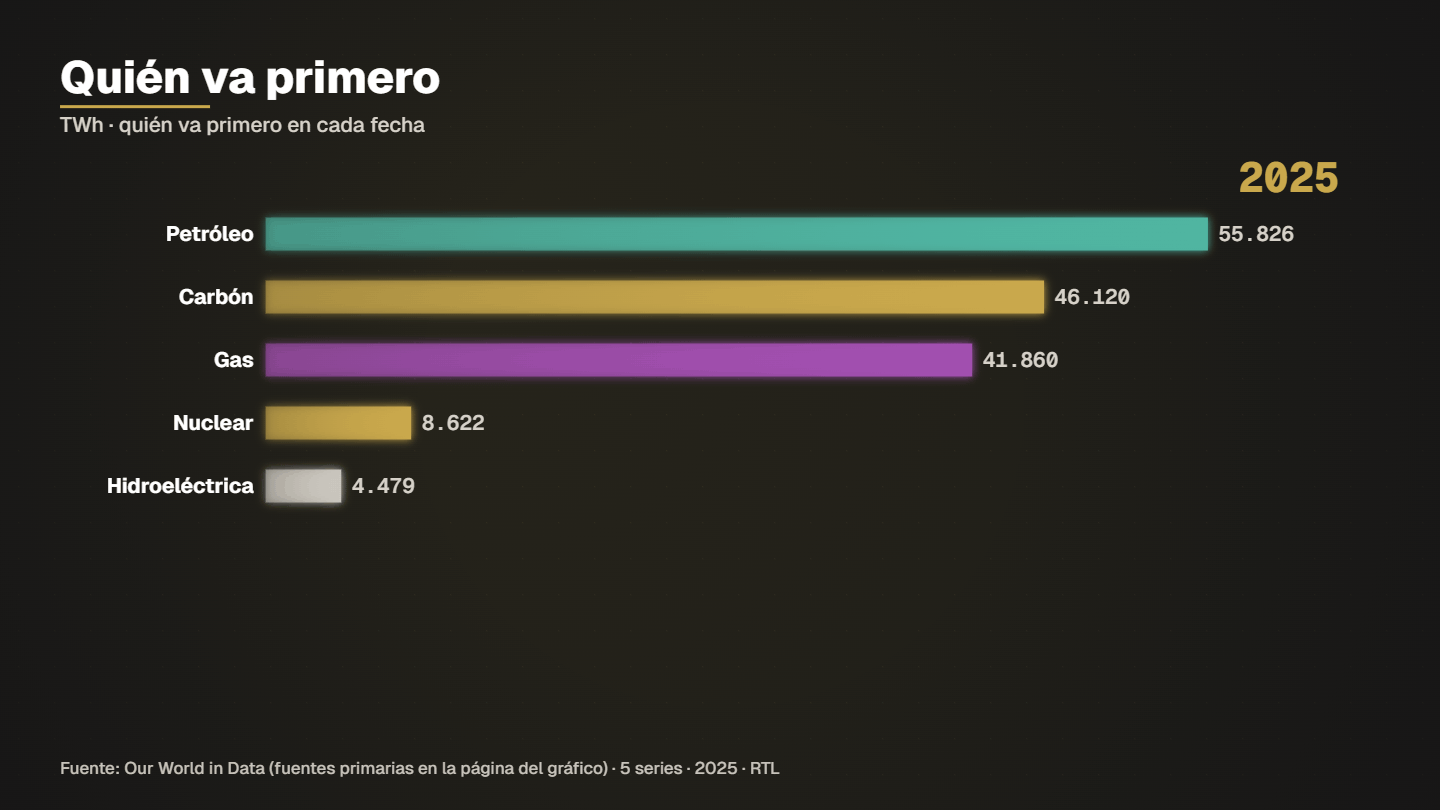
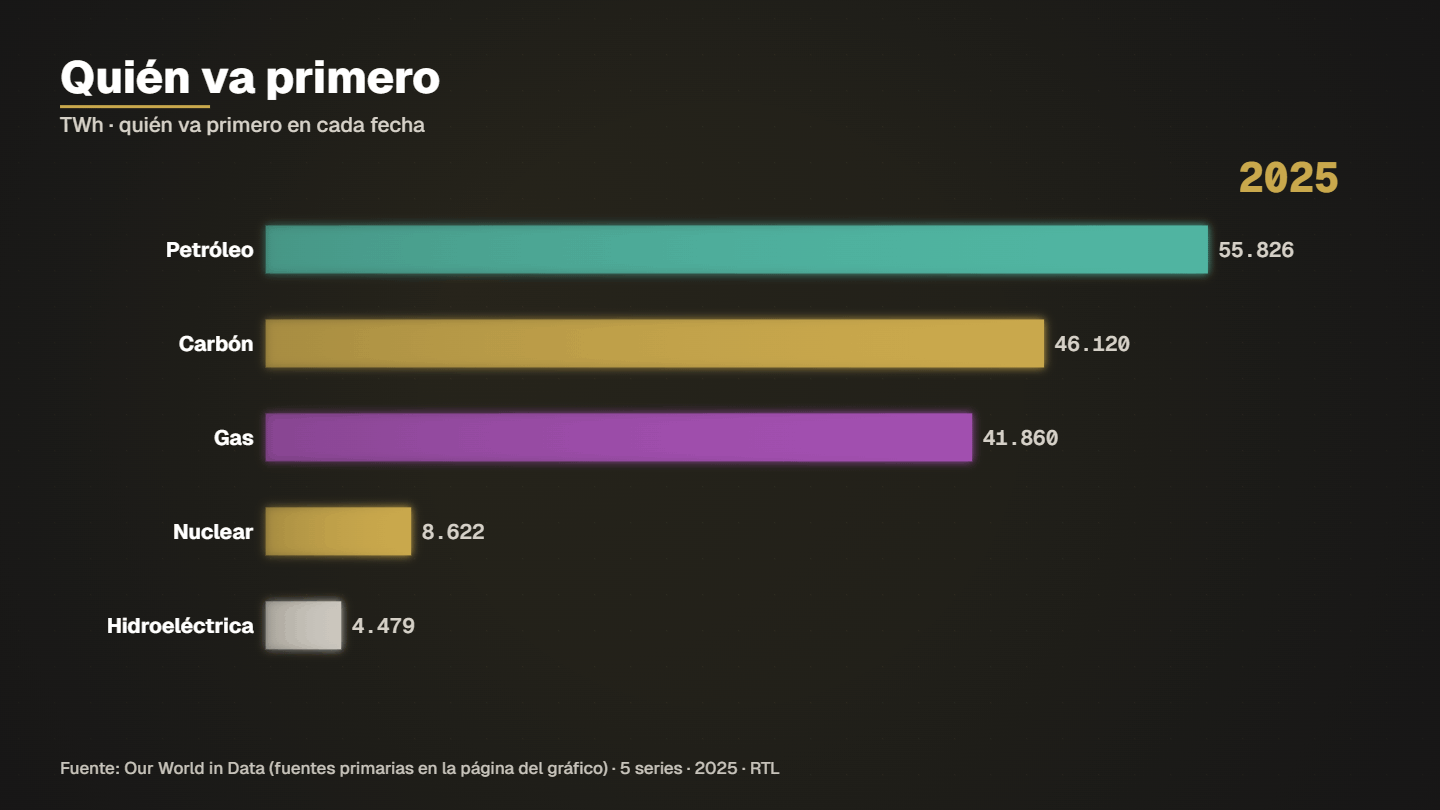
Charts: no truncated names in vertical, fuller canvas for ranking/dumbbell/race, contact-sheet audit tool

Changed region(s): [[0.0625, 0.2778, 0.9062, 0.7099], [0.1875, 0.2469, 0.8438, 0.2778], [0.0625, 0.7407, 0.2812, 0.8333]]

diff --git a/motor/capas_extra.js b/motor/capas_extra.js
@@ -6,6 +6,7 @@
 import {colorDivergente} from './escalas.js';
 import {PALETA, COLOR, TEMA, clamp, lerp, ease, prog, colorDe, mezcla, rgba, fmtNum, fmtSigno, fmtFecha, ticksNum, ticksFecha, etiquetaTick} from './nucleo.js';
 import {escalarFuente, fuenteCss, margenes, envolver, contraste, entrada as entradaDiseno} from './diseno.js';
+import {envolverEntero} from './etiquetas.js';
 
 export const TIPOS_EXTRA = ['radar', 'apilada', 'velas', 'histograma', 'dumbbell', 'calendario', 'agrupadas', 'bullet', 'bandas', 'pictograma', 'ranking'];
 /** Qué clase de dato consume cada capa: serie de tiempo, tabla de categorías, o ambas. */
@@ -58,6 +59,12 @@ function cortarA(env, s, ancho, base, peso = 700, mono = false) {
   let r = String(s);
   if (ctx.measureText(r).width > ancho) { while (r.length > 3 && ctx.measureText(r + '…').width > ancho) r = r.slice(0, -1); r = r.trimEnd() + '…'; }
   ctx.restore(); return r;
+}
+/** Nombre en 1..maxL líneas que caben en `ancho` SIN «…» (por palabras); solo si ni así cabe, se corta como última salida. */
+function nombreEnLineas(env, s, ancho, base, peso = 700, maxL = 2) {
+  const {ctx} = env; ctx.save(); ctx.font = F(env, peso, base);
+  const r = ctx.measureText(String(s)).width <= ancho ? [String(s)] : envolverEntero(ctx, String(s), ancho, maxL);
+  ctx.restore(); return r ?? [cortarA(env, s, ancho, base, peso)];
 }
 function lineasDe(env, s, ancho, base, peso, maxL) { const {ctx} = env; ctx.save(); ctx.font = F(env, peso, base); const r = envolver(ctx, s, ancho, maxL); ctx.restore(); return r; }
 
@@ -331,7 +338,7 @@ function dumbbell(env, capa) {
   const eje = pos ? marcasHasta(mx * 1.02, 4) : (() => { const tk = ticksNum(mn - (mx - mn) * 0.05, mx + (mx - mn) * 0.05, 4); return {ticks: tk, top: tk[tk.length - 1]}; })(), lo = pos ? 0 : eje.ticks[0], hi = eje.top;
   const dTxt = (f) => { const d = f.v0 > 0 ? (f.v1 / f.v0 - 1) * 100 : null; return d == null ? '' : pSigno(d, decPct(d)); }, vTxt = (f) => `${fN(f.v0, f.fmt)} → ${fN(f.v1, f.fmt)}`;
   const wUna = Math.max(...L.filas.map((f) => med(env, `${vTxt(f)}  ${dTxt(f)}`, 26, 800, true))), wNom = Math.max(...L.filas.map((f) => med(env, f.nombre, 26, 700))), dos = wUna + Math.min(wNom, B.w * 0.4) + 24 * u > B.w;   // ¿caben nombre y valores en una línea?
-  const cab = S * 1.0, fila = Math.min((B.h - cab - S * 2.4) / n, dos ? N * 2.5 + S * 2.2 : N * 2.5), x0 = B.x + 8 * u, x1 = B.x + B.w - 8 * u, px = (v) => x0 + ((v - lo) / (hi - lo)) * (x1 - x0), p = prog(t, t0, t1, ease.io2) * n, yy = B.y + cab, fmt = L.filas[0].fmt;
+  const cab = S * 1.0, holg = n <= 6 ? (vert ? 2.3 : 1.55) : 1, fila = Math.min((B.h - cab - S * 2.4) / n, (dos ? N * 2.5 + S * 2.2 : N * 2.5) * holg), x0 = B.x + 8 * u, x1 = B.x + B.w - 8 * u, px = (v) => x0 + ((v - lo) / (hi - lo)) * (x1 - x0), p = prog(t, t0, t1, ease.io2) * n, yy = B.y + cab, fmt = L.filas[0].fmt;
   nota(env, B, capa.nota ?? `CADA FILA UNE EL VALOR «${L.l0}» (PUNTO GRIS) CON EL «${L.l1}» (PUNTO DE COLOR) EN LA MISMA ESCALA${pos ? ', QUE ARRANCA EN 0' : ''}. VERDE: SUBIÓ · ROJO: BAJÓ.${uni(L.filas[0].fmt)}`, capa.id ?? 'dumbbell', ap);
   ctx.save(); ctx.globalAlpha *= ap;
   eje.ticks.forEach((v) => { const x = px(v); if (x < x0 - 1 || x > x1 + 1) return; ctx.strokeStyle = rgba(PALETA.piedra, v === lo ? 0.3 : 0.08); ctx.lineWidth = 1 * u; ctx.beginPath(); ctx.moveTo(x, yy); ctx.lineTo(x, yy + fila * n); ctx.stroke(); rot(env, fN(v, {...fmt, decimales: decDe(eje.ticks[1] - eje.ticks[0])}), x, yy + fila * n + S * 1.3, 18, 500, rgba(PALETA.piedraOscura, 0.95), 'center', `${capa.id ?? 'dumbbell'}:x${v}`, {mono: true, tipo: 'eje-x', lim: [x0, x1]}); });
@@ -458,14 +465,14 @@ function bullet(env, capa) {
   const {ctx, u, t, H, W} = env, tab = env.tablas[capa.datos], vert = H > W;
   const B = cajaDef(env, capa), [t0, t1] = capa.t ?? [0.5, 5], ap = aparece(env, capa, t0); if (ap <= 0) return;
   const L = (capa._bl ??= armarBullet(capa, tab)), n = L.length, S = tam(env, 18), N = tam(env, 26), p = prog(t, t0, t1, ease.io2);
-  const fila = Math.min((B.h - S * 0.5) / n, N * 7), bh = Math.max(26 * u, N * 1.0);
+  const lhB = tam(env, 26) * 1.12, LNB = (capa._bn ??= L.map((r) => nombreEnLineas(env, r.nombre, B.w - med(env, fN(r.v, r.fmt), 28, 800, true) - 20 * u, 26, 700, 2))), extB = Math.max(...LNB.map((l) => l.length)) - 1, fila = Math.min((B.h - S * 0.5) / n, N * 7 + extB * lhB), bh = Math.max(26 * u, N * 1.0);
   nota(env, B, capa.nota ?? 'BARRA: ÚLTIMO DATO. FONDO: HISTORIA DE LA SERIE EN TRES TRAMOS (MÍNIMO–P25, P25–P75, P75–MÁXIMO). RAYA BLANCA: LA META. LA ESCALA ARRANCA EN 0.', capa.id ?? 'bullet', ap);
   ctx.save(); ctx.globalAlpha *= ap;
   L.forEach((r, i) => {
     const y = B.y + i * fila, g = clamp(p * (n + 1) - i * 0.7), e = ease.out3(g); if (g <= 0) return;
-    const lo = Math.min(0, r.min), hi = Math.max(r.max, r.v, r.meta), px = (v) => B.x + ((v - lo) / (hi - lo)) * B.w, yb = y + N * 1.5, c = acento_(capa);
+    const lo = Math.min(0, r.min), hi = Math.max(r.max, r.v, r.meta), px = (v) => B.x + ((v - lo) / (hi - lo)) * B.w, yb = y + N * 1.5 + (LNB[i].length - 1) * lhB, c = acento_(capa);
     const vTxt = fN(r.v, r.fmt), wv = med(env, vTxt, 28, 800, true);
-    rot(env, cortarA(env, r.nombre, B.w - wv - 20 * u, 26, 700), B.x, y + N * 0.95, 26, 700, PALETA.blanco, 'left', `${capa.id ?? 'bullet'}:n${i}`, {alpha: g});
+    LNB[i].forEach((ln, k) => rot(env, ln, B.x, y + N * 0.95 + k * lhB, 26, 700, PALETA.blanco, 'left', `${capa.id ?? 'bullet'}:n${i}:${k}`, {alpha: g}));
     rot(env, vTxt, B.x + B.w, y + N * 0.95, 28, 800, c, 'right', `${capa.id ?? 'bullet'}:v${i}`, {mono: true, alpha: g});
     [[lo, r.p25, 0.34], [r.p25, r.p75, 0.2], [r.p75, hi, 0.1]].forEach(([a, b, k]) => { ctx.fillStyle = rgba(PALETA.piedra, k); ctx.fillRect(px(a), yb, Math.max(0, px(b) - px(a)), bh); });
     ctx.fillStyle = c; ctx.fillRect(Math.min(px(0), px(r.v)), yb + bh * 0.3, Math.abs(px(r.v) - px(0)) * e, bh * 0.4);
@@ -526,15 +533,15 @@ function armarPicto(capa, tab, B, env) {
 function pictograma(env, capa) {
   const {ctx, u, t, H, W} = env, tab = env.tablas[capa.datos], vert = H > W;
   const B = cajaDef(env, capa), [t0, t1] = capa.t ?? [0.5, 5], ap = aparece(env, capa, t0); if (ap <= 0) return;
-  const L = (capa._pc ??= armarPicto(capa, tab, B, env)), n = L.items.length, S = tam(env, 18), N = tam(env, 26), pal = paleta(), p = prog(t, t0, t1, ease.io2) * n, fila = Math.min((B.h - S * 2) / n, N * 3.2 + L.sq * 1.4), cab = S * 1.9;
+  const L = (capa._pc ??= armarPicto(capa, tab, B, env)), n = L.items.length, S = tam(env, 18), N = tam(env, 26), pal = paleta(), p = prog(t, t0, t1, ease.io2) * n, lhP = tam(env, 26) * 1.12, LN = (capa._pn ??= L.items.map((it) => { const pct = (it.valor / L.total) * 100; return nombreEnLineas(env, it.nombre, B.w - med(env, `${fN(it.valor, tab.fmt)}  ·  ${pTxt(pct, decPct(pct))}`, 26, 800, true) - 24 * u, 26, 700, 3); })), ext = Math.max(...LN.map((l) => l.length)) - 1, fila = Math.min((B.h - S * 2) / n, (vert ? N * 4.1 : N * 3.2) + L.sq * (vert ? 1.9 : 1.4) + ext * lhP), cab = S * 1.9;
   nota(env, B, capa.nota ?? `CADA CUADRO = ${fN(L.unidad, tab.fmt)}. LOS CUADROS INCOMPLETOS SON FRACCIONES EXACTAS DEL VALOR. EL % ES EL VALOR ENTRE LA SUMA DE TODAS LAS PARTES.${L.omitidas ? ` SE MUESTRAN LAS ${n} MAYORES DE ${n + L.omitidas}.` : ''}`, capa.id ?? 'pictograma', ap);
   ctx.save(); ctx.globalAlpha *= ap;
   L.items.forEach((it, i) => {
     const a = clamp(p - i), y = B.y + (i * fila), col = pal[i % pal.length]; if (a <= 0) return;
     const pct = (it.valor / L.total) * 100, tx = `${fN(it.valor, tab.fmt)}  ·  ${pTxt(pct, decPct(pct))}`, wT = med(env, tx, 26, 800, true);
-    rot(env, cortarA(env, it.nombre, B.w - wT - 24 * u, 26, 700), B.x, y + N * 0.95, 26, 700, PALETA.blanco, 'left', `${capa.id ?? 'pictograma'}:n${i}`, {alpha: ease.out3(a)});
+    LN[i].forEach((ln, k) => rot(env, ln, B.x, y + N * 0.95 + k * lhP, 26, 700, PALETA.blanco, 'left', `${capa.id ?? 'pictograma'}:n${i}:${k}`, {alpha: ease.out3(a)}));
     rot(env, tx, B.x + B.w, y + N * 0.95, 26, 800, col, 'right', `${capa.id ?? 'pictograma'}:v${i}`, {mono: true, alpha: clamp((a - 0.3) / 0.7)});
-    const cuadros = it.valor / L.unidad, completos = Math.floor(cuadros + 1e-9), paso = L.sq * 1.28, yq = y + N * 1.35;
+    const cuadros = it.valor / L.unidad, completos = Math.floor(cuadros + 1e-9), paso = L.sq * 1.28, yq = y + N * 1.35 + (LN[i].length - 1) * lhP;
     for (let q = 0; q <= completos; q++) {
       const fr = q < completos ? 1 : cuadros - completos; if (fr <= 1e-9) continue;
       const g = clamp(a * (cuadros + 1) - q); if (g <= 0) continue;
@@ -547,15 +554,15 @@ function pictograma(env, capa) {
 
 // ═══ 11. RANKING POR PAÍS (o entidad) con código ISO / ticker en vez de bandera ═══════════════════════════════════
 // El nombre puede venir como «COL · Colombia»: lo anterior a « · » es el código (ISO-3, ISO-2, ticker) y se dibuja en una ficha de texto.
-function armarRanking(capa, tab, vert) {
+function armarRanking(capa, tab, vert, maxDef) {
   const todos = tab.items.filter((i) => i.valor != null).sort((a, b) => b.valor - a.valor).map((it, r) => { const m = String(it.nombre).split(' · '); return {...it, rank: r + 1, codigo: m.length > 1 ? m[0].trim() : null, nombre: m.length > 1 ? m.slice(1).join(' · ').trim() : it.nombre}; });
-  const max = capa.max ?? (vert ? 7 : 9), top = todos.slice(0, max), res = capa.resalta ? todos.find((i) => i.nombre === capa.resalta || i.codigo === capa.resalta) : null;
+  const max = capa.max ?? maxDef ?? (vert ? 7 : 9), top = todos.slice(0, max), res = capa.resalta ? todos.find((i) => i.nombre === capa.resalta || i.codigo === capa.resalta) : null;
   return {todos, filas: res && !top.includes(res) ? [...top.slice(0, max - 1), {salto: true}, res] : top, res, omitidas: todos.length - top.length};
 }
 function ranking(env, capa) {
   const {ctx, u, t, H, W} = env, tab = env.tablas[capa.datos], vert = H > W;
   const B = cajaDef(env, capa), [t0, t1] = capa.t ?? [0.5, 5], ap = aparece(env, capa, t0); if (ap <= 0) return;
-  const L = (capa._rk ??= armarRanking(capa, tab, vert)), n = L.filas.length, S = tam(env, 18), N = tam(env, 26), pal = paleta(), p = prog(t, t0, t1, ease.io2) * n, fila = Math.min(B.h / n, N * 3.1), acento = acento_(capa);
+  const N = tam(env, 26), L = (capa._rk ??= armarRanking(capa, tab, vert, Math.max(6, Math.min(14, Math.floor(B.h / (N * 2.45)))))), n = L.filas.length, S = tam(env, 18), pal = paleta(), p = prog(t, t0, t1, ease.io2) * n, fila = Math.min(B.h / n, N * 3.1), acento = acento_(capa);
   const vmax = L.todos[0].valor, anyNeg = L.todos.some((i) => i.valor < 0), wC = Math.max(...L.filas.filter((f) => f.codigo).map((f) => med(env, f.codigo, 18, 800, true) + 22 * u), 0), wR = med(env, '10', 18, 800, true) + 12 * u;
   const wV = Math.max(...L.filas.filter((f) => !f.salto).map((f) => med(env, fN(f.valor, tab.fmt), 26, 800, true))), x0 = B.x, xb = x0 + wR + wC + 8 * u, largo = B.x + B.w - xb - wV - 18 * u;
   nota(env, B, capa.nota ?? `ORDEN DE MAYOR A MENOR. LA LONGITUD DE LA BARRA ES PROPORCIONAL AL VALOR${anyNeg ? '' : ' Y ARRANCA EN 0'}.${L.omitidas > 0 ? ` SE MUESTRAN ${n - (L.filas.some((f) => f.salto) ? 1 : 0)} DE ${L.todos.length}.` : ''}`, capa.id ?? 'ranking', ap);
@@ -563,7 +570,7 @@ function ranking(env, capa) {
   L.filas.forEach((f, i) => {
     const a = clamp(p - i), e = ease.out3(a), y = B.y + i * fila; if (a <= 0) return;
     if (f.salto) { rot(env, '⋮', x0 + wR / 2, y + fila * 0.6, 26, 700, PALETA.piedraOscura, 'center', `${capa.id ?? 'ranking'}:salto`, {alpha: e}); return; }
-    const col = L.res && f === L.res ? acento : f.rank === 1 ? acento : PALETA.piedraClara, yb = y + N * 1.28, bh = Math.max(12 * u, N * 0.5);
+    const col = L.res && f === L.res ? acento : f.rank === 1 ? acento : PALETA.piedraClara, yb = y + N * 1.4, bh = Math.max(12 * u, N * 0.5);
     rot(env, String(f.rank), x0 + wR, y + N * 0.95, 18, 800, PALETA.piedraOscura, 'right', `${capa.id ?? 'ranking'}:r${i}`, {mono: true, alpha: e});
     let xn = xb;
     if (f.codigo) { const w = wC - 8 * u; ctx.fillStyle = rgba(col, 0.22); ctx.globalAlpha = ap * e; ctx.beginPath(); ctx.roundRect(x0 + wR + 6 * u, y + N * 0.1, w, N * 1.1, 8 * u); ctx.fill(); ctx.globalAlpha = ap; rot(env, f.codigo, x0 + wR + 6 * u + w / 2, y + N * 0.93, 18, 800, col, 'center', `${capa.id ?? 'ranking'}:c${i}`, {mono: true, alpha: e}); }

diff --git a/motor/capas.js b/motor/capas.js
@@ -381,7 +381,7 @@ function carrera(env, capa) {
   const [t0, t1] = capa.t ?? [0.5, 10];
   const ap = aparece(env, capa, t0); if (ap <= 0) return;
   const f = prog(t, t0, t1, ease.lin) * (n - 1), i0 = Math.min(n - 2, Math.floor(f)), k = f - i0, ke = ease.io2(k);   // el tiempo de los datos avanza a ritmo constante (no es movimiento de interfaz)
-  const S = tab.series.length, fila = vert ? 112 * u : 84 * u, top = Math.max(2, Math.min(capa.top ?? 8, S, Math.floor((B.h - (vert ? 70 * u : 0)) / fila)));
+  const S = tab.series.length, nVis = Math.max(2, Math.min(capa.top ?? 8, S)), fila = Math.min(vert ? 190 * u : 140 * u, Math.max(vert ? 112 * u : 84 * u, (B.h - (vert ? 70 * u : 0)) / nVis)), top = Math.max(2, Math.min(capa.top ?? 8, S, Math.floor((B.h - (vert ? 70 * u : 0)) / fila)));
   const rango = (i) => {
     const o = tab.series.map((s, q) => ({q, v: s.y[i] ?? -Infinity})).sort((a, b) => b.v - a.v || a.q - b.q);
     const r = new Array(S); o.forEach((e, p) => (r[e.q] = p)); return r;
@@ -400,7 +400,7 @@ function carrera(env, capa) {
   for (const q of orden) {
     const pos = lerp(r0[q], r1[q], ke); if (pos > top - 0.5) continue;   // «top» filas visibles
     const y = y0 + pos * fila, color = colorDe(tab.series[q].color, q), alfa = clamp(top + 0.5 - pos, 0, 1);
-    const bx = B.x + LW, bw = Math.max(3 * u, (vals[q] / vmax) * (B.w - LW - VW)), bh = vert ? 26 * u : 44 * u, by = vert ? y + fila - bh - 14 * u : y + (fila - bh) / 2;
+    const bx = B.x + LW, bw = Math.max(3 * u, (vals[q] / vmax) * (B.w - LW - VW)), bh = vert ? Math.min(40 * u, fila * 0.24) : Math.min(64 * u, fila * 0.52), by = vert ? y + 58 * u : y + (fila - bh) / 2;
     ctx.save(); ctx.globalAlpha *= alfa; ctx.shadowColor = color; ctx.shadowBlur = 12 * u;
     const g = ctx.createLinearGradient(bx, 0, bx + bw, 0); g.addColorStop(0, rgba(color, 0.55)); g.addColorStop(1, color);
     ctx.fillStyle = g; ctx.fillRect(bx, by, bw, bh); ctx.restore();
@@ -1089,29 +1089,39 @@ function cascadaVertical(env, capa) {
   const [t0, t1] = capa.t ?? [0.5, 6], ap = aparece(env, capa, t0); if (ap <= 0) return;
   const barras = (capa._b ??= (() => { let run = 0; return tab.items.map((it) => { let ini, fin; if (it.tipo === 'inicio' || it.tipo === 'total') { ini = 0; fin = it.valor; run = it.valor; } else { ini = run; fin = run + it.valor; run = fin; } return {...it, ini, fin}; }); })());
   const n = barras.length, vmin = Math.min(0, ...barras.flatMap((b) => [b.ini, b.fin])), vmax = Math.max(0, ...barras.flatMap((b) => [b.ini, b.fin]));
-  const fila = Math.min(110 * u, B.h / n), px = (v) => B.x + ((v - vmin) / ((vmax - vmin) || 1)) * B.w, p = prog(t, t0, t1, ease.io2) * n, y0 = B.y;
-  const fN = fnt(700, 26 * u), fV = fnt(800, 26 * u, true), bh = Math.min(26 * u, fila * 0.26);
+  const fN = fnt(700, 26 * u), fV = fnt(800, 26 * u, true), lhN = escalarFuente(26 * u) * 1.12;
+  // Disposición de cada fila: el nombre se parte en 2 líneas (nunca «…») cuando no cabe junto a la cifra; esa fila crece lo que mide la 2.ª línea.
+  const lay = (capa._lay ??= barras.map((b) => {
+    const esTotal = b.tipo === 'inicio' || b.tipo === 'total', txt = esTotal ? fmtNum(b.valor, tab.fmt) : fmtSigno(b.valor, tab.fmt);
+    ctx.font = fV; const wv = ctx.measureText(txt).width; ctx.font = fN;
+    const nm = String(b.nombre), ancho = B.w - wv - 24 * u;
+    const lineas = ctx.measureText(nm).width <= ancho ? [nm] : (envolverEntero(ctx, nm, ancho, 3) ?? [cortar(ctx, nm, ancho)]);
+    return {esTotal, txt, wv, lineas};
+  }));
+  const extra = lay.reduce((s, l) => s + (l.lineas.length - 1) * lhN, 0), h0 = Math.min(110 * u, (B.h - extra) / n), bh = Math.min(26 * u, h0 * 0.26);
+  const ys = []; { let a = B.y; lay.forEach((l) => { ys.push(a); a += h0 + (l.lineas.length - 1) * lhN; }); ys.push(a); }
+  const px = (v) => B.x + ((v - vmin) / ((vmax - vmin) || 1)) * B.w, p = prog(t, t0, t1, ease.io2) * n, y0 = B.y;
   ctx.save(); ctx.globalAlpha *= ap;
-  ctx.strokeStyle = rgba(PALETA.piedra, 0.35); ctx.lineWidth = 1.5 * u; ctx.beginPath(); ctx.moveTo(px(0), y0); ctx.lineTo(px(0), y0 + fila * n); ctx.stroke();
+  ctx.strokeStyle = rgba(PALETA.piedra, 0.35); ctx.lineWidth = 1.5 * u; ctx.beginPath(); ctx.moveTo(px(0), y0); ctx.lineTo(px(0), ys[n]); ctx.stroke();
   barras.forEach((b, i) => {
     const a = clamp(p - i), e = ease.out3(a); if (a <= 0) return;
-    const esTotal = b.tipo === 'inicio' || b.tipo === 'total', col = esTotal ? colorTipo('ingreso') : b.valor >= 0 ? COLOR.verde : COLOR.rojo, y = y0 + i * fila, yb = y + fila - bh - Math.max(0.06 * fila, 3 * u);
+    const {esTotal, txt, wv, lineas} = lay[i], fila = ys[i + 1] - ys[i], col = esTotal ? colorTipo('ingreso') : b.valor >= 0 ? COLOR.verde : COLOR.rojo, y = ys[i], yb = y + fila - bh - Math.max(0.06 * h0, 3 * u);
     const xa = px(b.ini), xb = lerp(xa, px(b.fin), e), xl = Math.min(xa, xb), ww = Math.max(Math.abs(xb - xa), 2 * u);
     ctx.fillStyle = col; ctx.fillRect(xl, yb, ww, bh);
     const la = clamp((a - 0.4) / 0.6); if (la <= 0) return;
-    ctx.save(); ctx.globalAlpha *= la;
-    const txt = esTotal ? fmtNum(b.valor, tab.fmt) : fmtSigno(b.valor, tab.fmt);
-    ctx.font = fV; const wv = ctx.measureText(txt).width; ctx.font = fN;
-    const nom = cortar(ctx, String(b.nombre), B.w - wv - 24 * u), wn = ctx.measureText(nom).width, yt = y + Math.max(fila * 0.4, escalarFuente(26 * u) + 2 * u);
-    rotulo(ctx, nom, B.x, yt, fN, esTotal ? PALETA.blanco : PALETA.piedraClara, 'left', u);
+    ctx.save(); ctx.globalAlpha *= la; ctx.font = fN;
+    const yt = y + Math.max(h0 * 0.4, escalarFuente(26 * u) + 2 * u) + (lineas.length - 1) * lhN;
+    lineas.forEach((ln, k) => {
+      const yl = yt - (lineas.length - 1 - k) * lhN, wn = ctx.measureText(ln).width;
+      rotulo(ctx, ln, B.x, yl, fN, esTotal ? PALETA.blanco : PALETA.piedraClara, 'left', u);
+      reg(env, 'etiqueta', [B.x, yl - 34 * u, B.x + wn, yl + 8 * u], `${capa.id ?? 'cascada'}:n:${i}:${k}`);
+    });
     rotulo(ctx, txt, B.x + B.w, yt, fV, esTotal ? PALETA.blanco : col, 'right', u);
-    reg(env, 'etiqueta', [B.x, yt - 34 * u, B.x + wn, yt + 8 * u], `${capa.id ?? 'cascada'}:n:${i}`);
     reg(env, 'etiqueta', [B.x + B.w - wv, yt - 34 * u, B.x + B.w, yt + 8 * u], `${capa.id ?? 'cascada'}:v:${i}`);
     ctx.restore();
   });
   ctx.restore();
 }
-
 function cascada(env, capa) {
   if (env.H > env.W || env.tablas[capa.datos].items.length > 8) return cascadaVertical(env, capa);   // muchos conceptos: filas con el nombre entero (también en horizontal)
   const {ctx, u, t, W, H} = env, tab = env.tablas[capa.datos], vert = H > W;

diff --git a/scripts/hoja-contactos.py b/scripts/hoja-contactos.py
@@ -1,0 +1,36 @@
+"""Dev tool: contact sheets of docs/gallery PNGs for visual audits.
+Usage: python scripts/hoja-contactos.py [galeria_dir] [salida_dir]
+Writes <salida>/h-N.jpg (2 columns, horizontal frames) and <salida>/v-N.jpg (6 columns, vertical frames)."""
+import sys, os, glob
+from PIL import Image, ImageDraw
+
+gal = sys.argv[1] if len(sys.argv) > 1 else 'docs/gallery'
+out = sys.argv[2] if len(sys.argv) > 2 else '.tmp/hojas'
+os.makedirs(out, exist_ok=True)
+nombres = sorted({os.path.basename(f)[:-6] for f in glob.glob(os.path.join(gal, '*-?.png'))})
+
+def hoja(nombres, sufijo, cols, ancho, nombre_out):
+    celdas = []
+    for n in nombres:
+        p = os.path.join(gal, f'{n}-{sufijo}.png')
+        if os.path.exists(p):
+            im = Image.open(p).convert('RGB')
+            h = int(im.height * ancho / im.width)
+            celdas.append((n, im.resize((ancho, h), Image.LANCZOS)))
+    if not celdas: return
+    filas = [celdas[i:i + cols] for i in range(0, len(celdas), cols)]
+    alto_f = [max(c[1].height for c in f) + 16 for f in filas]
+    sheet = Image.new('RGB', (cols * ancho, sum(alto_f)), (30, 30, 30))
+    d = ImageDraw.Draw(sheet); y = 0
+    for f, ah in zip(filas, alto_f):
+        for i, (n, im) in enumerate(f):
+            sheet.paste(im, (i * ancho, y + 16)); d.text((i * ancho + 4, y + 2), n, fill=(255, 220, 90))
+        y += ah
+    sheet.save(os.path.join(out, nombre_out), quality=82)
+
+g = 6
+for k in range(0, len(nombres), g):
+    grp = nombres[k:k + g]
+    hoja(grp, 'h', 2, 800, f'h-{k // g + 1}.jpg')
+    hoja(grp, 'v', 6, 260, f'v-{k // g + 1}.jpg')
+print(len(nombres), 'modelos', os.listdir(out))

diff --git a/CLAUDE.md b/CLAUDE.md
@@ -18,6 +18,7 @@ Herramienta local para animar gráficas de datos. Lee `servidor/guia-de-direccio
 
 ## Aprendizajes
 
+- **2026-11-05 — Pase visual nocturno (hojas de contactos + capas `capas.js`/`capas_extra.js`):** mirar la galería en HOJAS (`python scripts/hoja-contactos.py`) caza lo que los tests no ven: nombres con «…» en vertical, filas que ocupan el 60 % del alto, barras más cerca de la etiqueta de la fila siguiente que de la suya. Arreglos: `nombreEnLineas` (2-3 líneas, nunca «…») en cascada/pictograma/bullet, filas con alto variable en la cascada vertical, `holg` (más aire con ≤6 filas) en dumbbell, `fila` proporcional al lienzo en carrera, ranking con filas según alto disponible. GOTCHA: `escalarFuente` sube el piso en vertical, así que una 2.ª línea mide ~52 px, no 29; y regenerar la galería re-descarga datos (revertir `examples/*/data.csv` si solo cambia la fecha). **Por qué importa:** un truncado con «…» o un hueco grande es un defecto que ninguna prueba de colisión detecta. Diario: `docs/diagnosticos/2026-11-05-noche.md`.
 - **2026-11-04 — Ampliación de datos (4.480 series; `servidor/ampliacion.mjs` + `servidor/fuentes_extra.mjs` + `data/`):** las fuentes abiertas mienten en detalles que solo se ven contrastando con una consulta independiente (`node scripts/prueba-datos-nuevos.mjs --doc` → `docs/data-verification.md`). GOTCHAS: (1) Grecia es `EL` en Eurostat y un `geo` desconocido NO da error: devuelve muchos países (el adaptador lo rechaza); (2) el IPCA de la zona euro (`EA`/`EA20`) termina en 2025-12; (3) FiscalData publica DOS filas con el mismo `record_date` cuando corrige una tasa de cambio a mitad de trimestre → la fecha de la serie es `effective_date`; (4) NOAA marca los meses interpolados con `sdev` negativa y en la era Scripps (1958–1974) no distingue medido de interpolado → se omite todo; (5) la ANH escribe barriles como texto con comas de miles (`"25,866.00"`): se suma en centésimas enteras; (6) los códigos de FRED no son los del BLS (`USCONS` = `CES2000000001`) y un id inexistente devuelve HTML. **Por qué importa:** cada fuente nueva necesita su prueba contra la fuente oficial por otro camino; una serie que baja "sin error" no está verificada.
 - **2026-11-04 — Licencias: «CC BY 4.0 del Banco Mundial» no cubre todo WDI, y la instantánea `data/` solo lleva lo redistribuible:** muchos indicadores WDI republican datos del FMI (IFS), IEA, OMS, UNESCO, UIT, OMC o la Federación Mundial de Bolsas con términos propios, y la API no expone licencia por indicador. `scripts/actualizar-instantanea.mjs` deja fuera los de esas fuentes primarias (mira la PRIMERA organización de `sourceOrganization`), el FMI, Yahoo, Coin Metrics (NC), CC BY-SA (TRM, ANH) y FRED de editores privados, y lo registra en `data/MANIFEST.json`. `servidor/datos.mjs` cae a `data/<id>.csv` si falta `datos/biblioteca/<id>.csv` (procedencia desde el manifiesto; un archivo propio con el mismo nombre NO la hereda). **Por qué importa:** los ejemplos con Bitcoin (Coin Metrics) o deuda del FMI no corren desde la instantánea por licencia, no por descuido.
 - **2026-11-04 — En Bash, los heredocs corrompen las barras invertidas de los parches (`\d` → `d`) otra vez:** el parche «compilaba» y la regex de fechas dejó de coincidir. Los parches con regex van con la herramienta Write a un `.cjs` o con Edit, nunca con heredoc. Y los backticks dentro de una plantilla de JS que genera Markdown hay que escaparlos (`\``).

diff --git a/docs/diagnosticos/2026-11-05-noche.md b/docs/diagnosticos/2026-11-05-noche.md
@@ -1,0 +1,27 @@
+# Diagnóstico visual nocturno — 2026-11-05
+
+Método: hojas de contactos (`python scripts/hoja-contactos.py`) de `docs/gallery/` (31 modelos, horizontal y vertical), mirando los PNG reales
+y comparando con las referencias de `docs/STYLE_REFERENCES.md`. Cada arreglo se verifica regenerando solo ese modelo
+(`node scripts/generar-galeria.mjs --solo=<id> --sin-video`) y mirando el recorte antes/después.
+
+## Lista priorizada de defectos (inicial)
+
+| # | Modelo | Defecto | Gravedad | Estado |
+|---|---|---|---|---|
+| 1 | ranking | Fila resaltada (Colombia): nombre y cifra se pisan; en vertical solo 7 filas con el lienzo medio vacío | alta | **arreglado** |
+| 2 | cascada (vertical) | Nombres cortados con «…» («Costo de vent…», «Ventas, genera…») | alta | **arreglado** |
+| 3 | pictograma (vertical) | Nombres cortados con «…»; mitad inferior vacía | alta | **arreglado** |
+| 4 | bullet (vertical) | «Tasa de los fondos federales (mensu…» cortado | media | **arreglado** |
+| 5 | dumbbell / dumbbell-series | Con pocas filas ocupan solo el 60 % del alto (especialmente vertical) | media | **arreglado** |
+| 6 | carrera | Pocas series: barras de 44 px en un lienzo de 1080; en vertical la barra quedaba más cerca de la etiqueta de la fila siguiente que de la suya | media | **arreglado** |
+| 7 | sankey (horizontal) | Etiquetas de los nodos centrales encima de las cintas; rótulos SEC en inglés («United States», «Sales, general and administrative») | alta | pendiente |
+| 8 | waffle / sankey / treemap | Rótulos SEC sin traducir | media | pendiente |
+| 9 | correlación (vertical) | Subtítulo y «Bono del Te…» cortados con «…» | media | pendiente |
+| 10 | lollipop, pendiente, panel | Lienzo infrautilizado en vertical y horizontal | baja | pendiente |
+| 11 | histograma/retornos | Etiquetas «MEDIANA» y «ÚLTIMO» muy juntas en la parte superior | baja | pendiente |
+
+## Diario de cambios
+(se completa abajo con cada commit)
+
+- Commit 1: ranking (filas por alto disponible, sin choque), cascada vertical (nombres en 2-3 líneas, filas de alto variable), pictograma y bullet (nombres en líneas), dumbbell (aire con pocas filas), carrera (filas y barras proporcionales, barra pegada a su etiqueta en vertical). Pruebas: prueba, tablas, plantillas, visualizador, universal, calidad, paises: todas OK.
+- Rechazado/pendiente: Sankey horizontal (etiquetas sobre cintas) y traducción SEC: requieren más trabajo; ver tabla.
